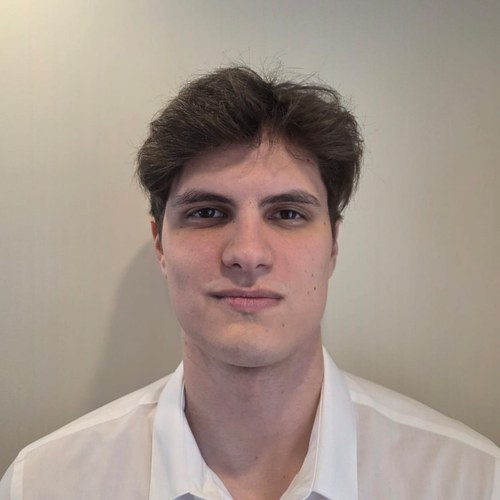
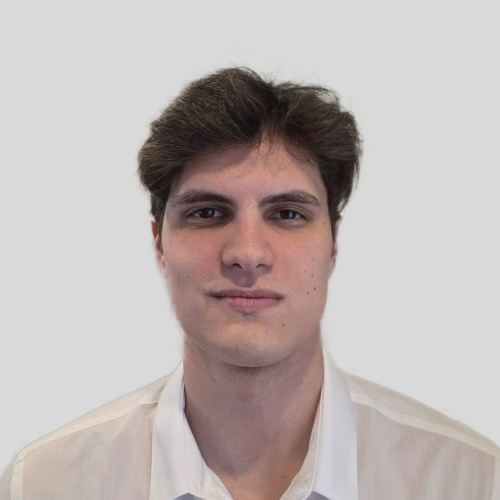
menos vueltas, mas lugar.

diff --git a/index.html b/index.html
@@ -36,7 +36,7 @@
 
 <section id="hero">
     <img src="assets/logos/logo-parklink.png" alt="ParkLink" class="hero-logo">
-    <h1 class="hero-title">Estacionar en la ciudad,<br>sin el caos.</h1>
+    <h1 class="hero-title">Menos vueltas,<br>más lugar.</h1>
     <p class="hero-desc">
         ParkLink conecta conductores con cocheras disponibles en tiempo real. Reservás por hora o por estadía, pagás con Mercado Pago desde la app y coordinás todo con el propietario por chat.
     </p>
@@ -219,7 +219,7 @@
             <a href="mailto:facu@parklink.com.ar" class="t-mail">facu@parklink.com.ar</a>
         </div>
         <div class="team-card reveal d3">
-            <div class="avatar"><img src="assets/team/santiago-varga.jpg" alt="Santiago Varga"></div>
+            <div class="avatar"><img src="assets/team/santiago-varga-circular.png" alt="Santiago Varga"></div>
             <div class="t-name">Santiago Varga</div>
             <div class="t-role">Ing. en Informática</div>
             <a href="mailto:santiv@parklink.com.ar" class="t-mail">santiv@parklink.com.ar</a>
